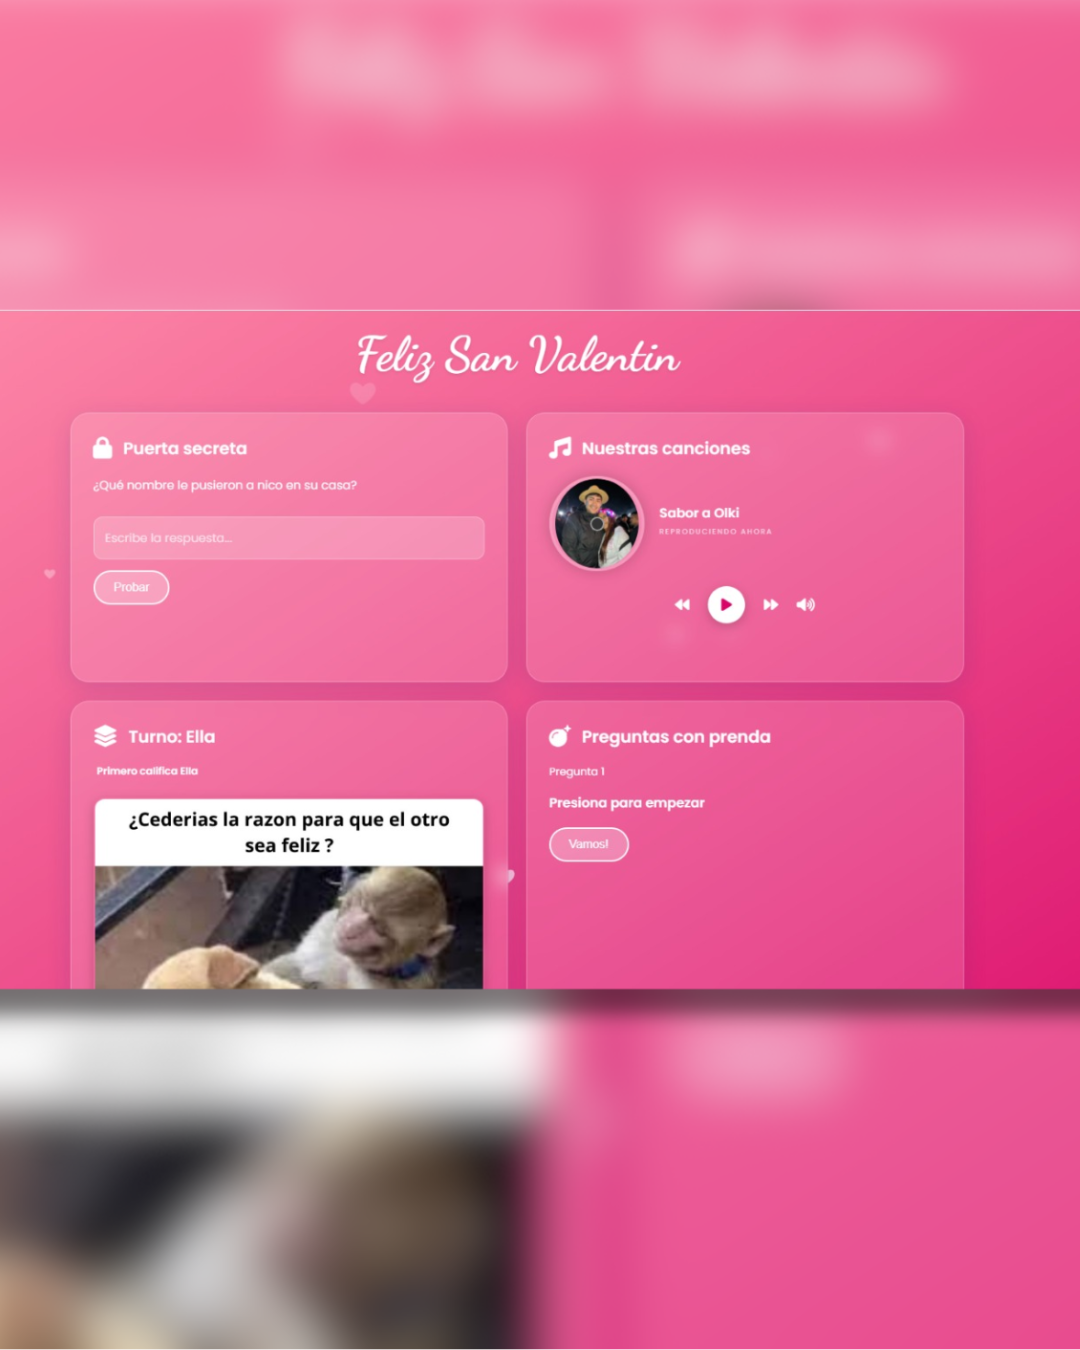
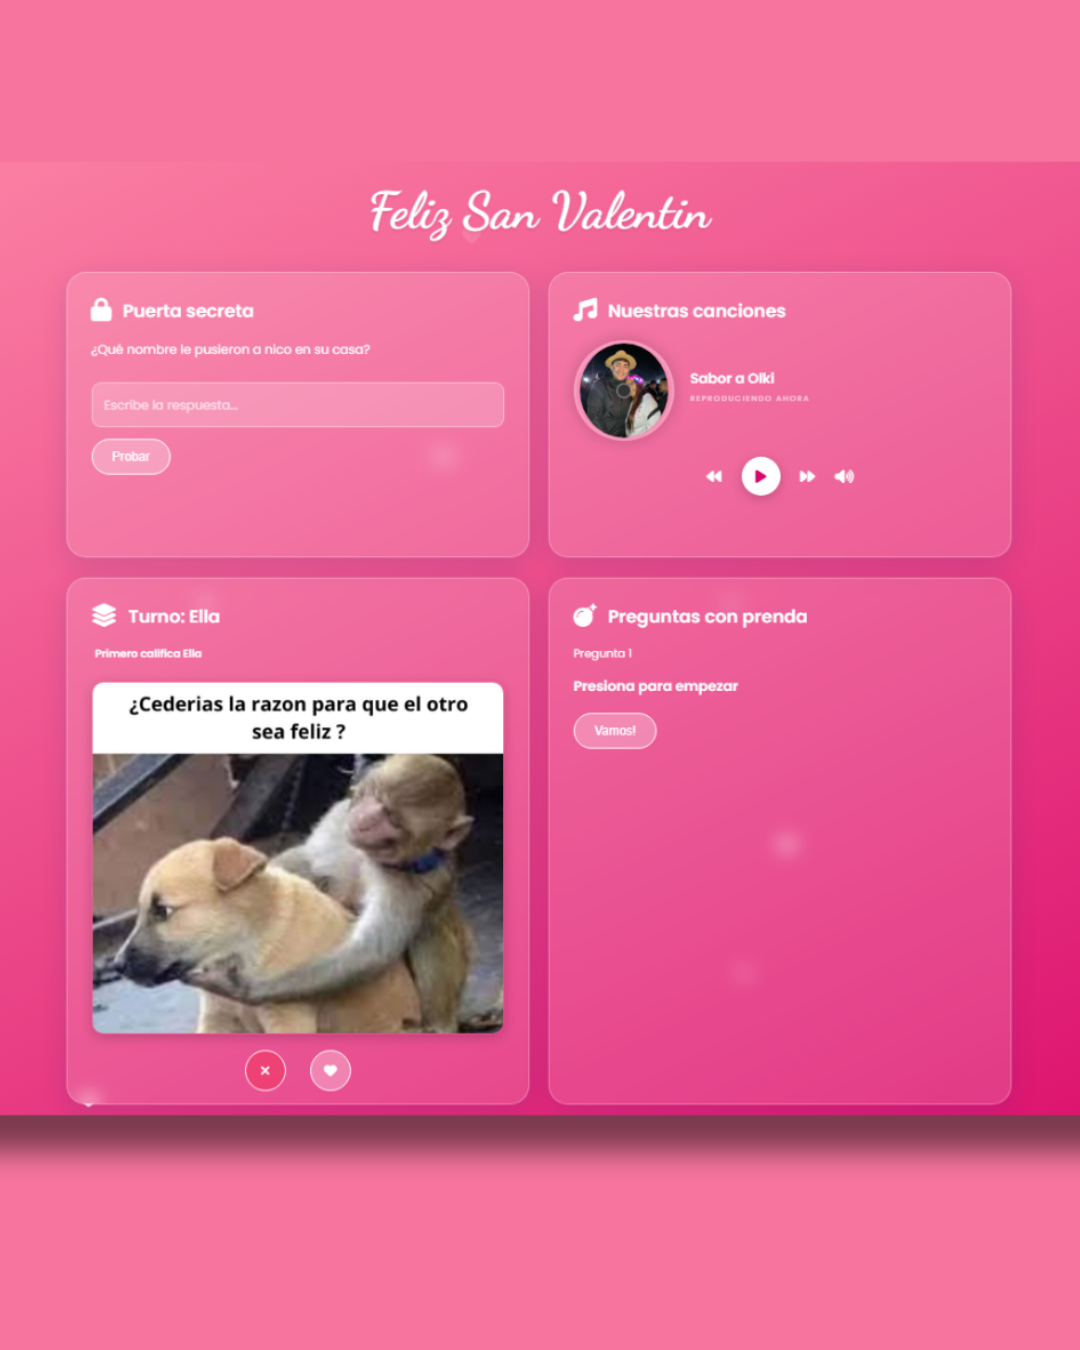
feat: add HogarOrden, MIKIT, SAD projects; reorder carousel; remove monkey; add fullscreen viewer; fix image sizing

diff --git a/index.html b/index.html
@@ -1240,36 +1240,6 @@
       margin: 4px 0;
     }
 
-    /* MONKEY ASSISTANT */
-    .monkey-anim {
-      width: 180px;
-      height: 180px;
-      background-image: url('iconos/mono1.png');
-      background-size: contain;
-      background-repeat: no-repeat;
-      background-position: bottom center;
-      animation: monkeyBlink 1s infinite alternate;
-      cursor: pointer;
-      filter: drop-shadow(0 4px 10px rgba(0, 0, 0, 0.6));
-      transition: transform 0.2s;
-    }
-
-    .monkey-anim:hover {
-      transform: scale(1.1);
-    }
-
-    @keyframes monkeyBlink {
-
-      0%,
-      49.9% {
-        background-image: url('iconos/mono1.png');
-      }
-
-      50%,
-      100% {
-        background-image: url('iconos/mono2.png');
-      }
-    }
     /* CODE EDITOR STYLE FOR ABOUT */
     #win-about {
       width: 480px;
@@ -1456,7 +1426,6 @@
 <body>
 
   <audio id="startup-sound" src="Windows 11 Startup sound.mp3" preload="auto" autoplay></audio>
-  <audio id="error-sound" src="Efecto error computadora.mp3" preload="auto"></audio>
   <script>
     (function () {
       const audio = document.getElementById('startup-sound');
@@ -2093,7 +2062,7 @@
 
       #win-exp .ig-modal-left {
         flex: 1;
-        background: #000;
+        background: #fff;
         display: flex;
         align-items: center;
         justify-content: center;
@@ -2118,9 +2087,12 @@
       }
 
       #win-exp .modal-carousel-track img {
+        display: block;
         min-width: 100%;
         height: 100%;
         object-fit: contain;
+        flex-shrink: 0;
+        cursor: zoom-in;
       }
 
       #win-exp .modal-nav {
@@ -2421,7 +2393,7 @@
         position: relative;
         overflow: hidden;
         background: var(--surface);
-        aspect-ratio: 1;
+        aspect-ratio: 4 / 5;
         width: 100%;
       }
 
@@ -2435,13 +2407,16 @@
         flex-shrink: 0;
         width: 100%;
         height: 100%;
-        display: flex;
-        align-items: center;
-        justify-content: center;
-        flex-direction: column;
-        gap: 12px;
-        padding: 24px;
+        padding: 0;
         position: relative;
+        overflow: hidden;
+      }
+
+      #win-exp .carousel-slide img {
+        display: block;
+        width: 100%;
+        height: 100%;
+        object-fit: cover;
       }
 
       #win-exp .slide-bg-1 {
@@ -2870,64 +2845,81 @@
       <!-- GRID TAB -->
       <div id="tab-grid" class="active-tab">
         <div class="grid">
-          <!-- 0: Landing (Top/Newest) -->
+          <!-- 0: HogarOrden -->
           <div class="grid-item" onclick="openIGModal(0)">
+            <div class="grid-thumb"><img src="Carrusel IG/HogarOrden/1.png" loading="lazy"></div>
+            <div class="grid-item-icon carousel-icon"></div>
+            <div class="grid-overlay"><span>❤ 320</span></div>
+          </div>
+          <!-- 1: MIKIT -->
+          <div class="grid-item" onclick="openIGModal(1)">
+            <div class="grid-thumb"><img src="Carrusel IG/MIKIT/1.png" loading="lazy"></div>
+            <div class="grid-item-icon carousel-icon"></div>
+            <div class="grid-overlay"><span>❤ 280</span></div>
+          </div>
+          <!-- 2: SAD - Sistema de Asignación Docente -->
+          <div class="grid-item" onclick="openIGModal(2)">
+            <div class="grid-thumb"><img src="Carrusel IG/Sistema de asignacion docente/1.png" loading="lazy"></div>
+            <div class="grid-overlay"><span>❤ 156</span></div>
+          </div>
+          <!-- 3: Landing Arquitectura -->
+          <div class="grid-item" onclick="openIGModal(3)">
             <div class="grid-thumb"><img src="Carrusel IG/Landing page para arquitecta/23.png" loading="lazy"></div>
             <div class="grid-item-icon carousel-icon"></div>
             <div class="grid-overlay"><span>❤ 178</span></div>
           </div>
-          <!-- 1: San Valentín -->
-          <div class="grid-item" onclick="openIGModal(1)">
+          <!-- 4: San Valentín -->
+          <div class="grid-item" onclick="openIGModal(4)">
             <div class="grid-thumb"><img src="Carrusel IG/Regalo digital de San valentin/12.png" loading="lazy"></div>
             <div class="grid-overlay"><span>❤ 310</span></div>
           </div>
-          <!-- 2: Vinos Bodega (Venta) -->
-          <div class="grid-item" onclick="openIGModal(2)">
+          <!-- 5: Vinos Bodega -->
+          <div class="grid-item" onclick="openIGModal(5)">
             <div class="grid-thumb"><img src="Carrusel IG/Desarrollo de sistema para venta de vinos/19.png"
                 loading="lazy"></div>
             <div class="grid-item-icon carousel-icon"></div>
             <div class="grid-overlay"><span>❤ 124</span></div>
           </div>
-          <!-- 3: Piattelli (Gestión) -->
-          <div class="grid-item" onclick="openIGModal(3)">
+          <!-- 6: Piattelli -->
+          <div class="grid-item" onclick="openIGModal(6)">
             <div class="grid-thumb"><img src="Carrusel IG/Bodega Piatelli/16.png" loading="lazy"></div>
             <div class="grid-item-icon carousel-icon"></div>
             <div class="grid-overlay"><span>❤ 340</span></div>
           </div>
-          <!-- 4: Calculadora de Raíces -->
-          <div class="grid-item" onclick="openIGModal(4)">
+          <!-- 7: Análisis Numérico -->
+          <div class="grid-item" onclick="openIGModal(7)">
             <div class="grid-thumb"><img src="Carrusel IG/Calculos de raices - Analisis numerico/11.png" loading="lazy">
             </div>
             <div class="grid-overlay"><span>❤ 89</span></div>
           </div>
-          <!-- 5: Veteranos de Malvinas -->
-          <div class="grid-item" onclick="openIGModal(5)">
+          <!-- 8: Malvinas -->
+          <div class="grid-item" onclick="openIGModal(8)">
             <div class="grid-thumb"><img src="Carrusel IG/Entrevista a veteranos de malvinas/4.png" loading="lazy">
             </div>
             <div class="grid-overlay"><span>❤ 412</span></div>
           </div>
-          <!-- 6: Cafetería -->
-          <div class="grid-item" onclick="openIGModal(6)">
+          <!-- 9: Cafetería -->
+          <div class="grid-item" onclick="openIGModal(9)">
             <div class="grid-thumb"><img src="Carrusel IG/Cafeteria - gestion de mesas en tiempo real/18.png"
                 loading="lazy"></div>
             <div class="grid-overlay"><span>❤ 152</span></div>
           </div>
-          <!-- 7: Plotter Wizard (Cotizador) -->
-          <div class="grid-item" onclick="openIGModal(7)">
+          <!-- 10: Plotter Wizard -->
+          <div class="grid-item" onclick="openIGModal(10)">
             <div class="grid-thumb"><img src="Carrusel IG/Cotizador de planos/5.png" loading="lazy"></div>
             <div class="grid-item-icon carousel-icon"></div>
             <div class="grid-overlay"><span>❤ 198</span></div>
           </div>
-          <!-- 8: Reality Plus -->
-          <div class="grid-item" onclick="openIGModal(8)">
+          <!-- 11: Reality Plus -->
+          <div class="grid-item" onclick="openIGModal(11)">
             <div class="grid-thumb"><img
                 src="Carrusel IG/Competencia Innovar - Aplicacion para maquetas de arquitectura/7.png" loading="lazy">
             </div>
             <div class="grid-item-icon carousel-icon"></div>
             <div class="grid-overlay"><span>❤ 521</span></div>
           </div>
-          <!-- 9: My Garden (Bottom/Oldest) -->
-          <div class="grid-item" onclick="openIGModal(9)">
+          <!-- 12: My Garden -->
+          <div class="grid-item" onclick="openIGModal(12)">
             <div class="grid-thumb"><img src="Carrusel IG/My garden/1.png" loading="lazy"></div>
             <div class="grid-item-icon carousel-icon"></div>
             <div class="grid-overlay"><span>❤ 214</span></div>
@@ -2958,11 +2950,12 @@
               <button class="modal-more">•••</button>
             </div>
             <div class="modal-right-body">
-              <div class="modal-caption-wrap">
+                <div class="modal-caption-wrap">
                 <img src="iconos/user.png" class="modal-av">
                 <div>
                   <span class="modal-username">pablocelaya</span>
                   <span id="modal-caption">Cargando...</span>
+                  <div id="modal-link-container" style="margin-top:6px;"></div>
                   <div class="modal-hashtags">#ingenieria #pablocelaya #tecnologia #argentina</div>
                 </div>
               </div>
@@ -3389,26 +3382,7 @@
         style="width:16px; height:16px; object-fit: contain;"> WhatsApp</div>
   </div>
 
-  <!-- MONKEY ASSISTANT -->
-  <div id="monkey-assistant"
-    style="position: fixed; bottom: 70px; right: 20px; z-index: 9000; display: none; align-items: flex-end; gap: 15px;">
-    <div
-      style="background: white; border: 2px solid #222; border-radius: 12px; padding: 14px 18px; position: relative; max-width: 240px; box-shadow: 0 8px 25px rgba(0,0,0,0.6);">
-      <p
-        style="color: #8a0303; font-family: 'Creepster', cursive; font-size: 20px; letter-spacing: 1.5px; text-shadow: 1px 1px 3px rgba(0,0,0,0.5); margin: 0; line-height: 1.3;">
-        ¡Buenas! 🩸 HAZ DOBLE CLIC EN LOS ÍCONOS para navegar o investiga el menú de inicio ANTES DE QUE SEA TARDE...
-        👁
-      </p>
-      <!-- Balloon Tail -->
-      <div
-        style="position: absolute; bottom: 20px; right: -14px; width: 0; height: 0; border-top: 10px solid transparent; border-bottom: 10px solid transparent; border-left: 14px solid #222;">
-      </div>
-      <div
-        style="position: absolute; bottom: 20px; right: -10px; width: 0; height: 0; border-top: 10px solid transparent; border-bottom: 10px solid transparent; border-left: 10px solid white;">
-      </div>
-    </div>
-    <div class="monkey-anim"></div>
-  </div>
+
 
   <script>
     function toggleSub(id, row) {
@@ -3607,18 +3581,6 @@
       whoami: () => `<div class="term-line">Ingeniero en Informática en formación | Backend Dev | Systems Designer</div>`
     };
 
-    // FIX 5: Monkey now lasts 14 seconds (4s extra) before fading out
-    setTimeout(() => {
-      const monkey = document.getElementById('monkey-assistant');
-      if (monkey) {
-        monkey.style.transition = 'opacity 1s ease-out, transform 1s ease-out';
-        monkey.style.opacity = '0';
-        monkey.style.transform = 'translateY(100px)';
-        setTimeout(() => monkey.remove(), 1000);
-      }
-    }, 14000);
-
-
     function handleTermInput(e) {
       if (e.key !== 'Enter') return;
       const input = document.getElementById('term-input');
@@ -3651,20 +3613,6 @@
     }
 
     window.addEventListener('load', () => {
-      // Show monkey assistant after delay
-      setTimeout(() => {
-        const monkey = document.getElementById('monkey-assistant');
-        const errSound = document.getElementById('error-sound');
-        if (monkey) {
-          monkey.style.display = 'flex';
-          monkey.style.animation = 'winOpen 0.5s ease-out forwards';
-        }
-        if (errSound) {
-          errSound.volume = 0.8;
-          errSound.play().catch(e => console.log('Error sound autoplay block', e));
-        }
-      }, 4500);
-
       // Auto open about window
       setTimeout(() => openWindow('win-about'), 400);
     });
@@ -3723,9 +3671,28 @@
 
     const IG_PROJECTS = [
       {
+        title: "HogarOrden",
+        caption: "Sistema integral de gestión inteligente para el hogar. Automatización de tareas, control de gastos y organización familiar desde un solo lugar.",
+        location: "Salta, Argentina",
+        images: ["Carrusel IG/HogarOrden/1.png", "Carrusel IG/HogarOrden/2.png"]
+      },
+      {
+        title: "MIKIT",
+        caption: "Kit personal de herramientas digitales y recursos técnicos. Compilación de utilidades para el desarrollo y la productividad diaria.",
+        location: "Salta, Argentina",
+        images: ["Carrusel IG/MIKIT/1.png", "Carrusel IG/MIKIT/2.png"]
+      },
+      {
+        title: "SAD — Sistema de Asignación Docente",
+        caption: "Plataforma web para gestión y asignación de cargos docentes. Optimiza la distribución de horas cátedra en instituciones educativas.",
+        location: "Salta, Argentina",
+        images: ["Carrusel IG/Sistema de asignacion docente/1.png"]
+      },
+      {
         title: "Estudio Arquitectura",
         caption: "Landing page corporativa para estudio de arquitectura con portfolio interactivo. Diseño minimalista y moderno.",
         location: "Salta, Argentina",
+        link: "https://dev-pcr.github.io/portfolio-arquitectura/",
         images: [
           "Carrusel IG/Landing page para arquitecta/23.png",
           "Carrusel IG/Landing page para arquitecta/24.png",
@@ -3829,10 +3796,16 @@
       // Fill text data
       document.getElementById('modal-caption').innerText = project.caption;
       document.getElementById('modal-location').innerText = project.location;
+      const linkContainer = document.getElementById('modal-link-container');
+      if (project.link) {
+        linkContainer.innerHTML = `<a href="${project.link}" target="_blank" rel="noopener" style="color:#0095f6;font-size:13px;text-decoration:none;font-weight:600;">🔗 Ver sitio</a>`;
+      } else {
+        linkContainer.innerHTML = '';
+      }
 
       // Fill images
       const track = document.getElementById('modal-track');
-      track.innerHTML = project.images.map(img => `<img src="${img}" loading="lazy">`).join('');
+      track.innerHTML = project.images.map(img => `<img src="${img}" loading="lazy" onclick="openImgViewer('${img}')">`).join('');
 
       updateModalCarousel();
 
@@ -3885,7 +3858,7 @@
       </div>
       <div class="carousel-wrap" id="feed-c-${i}">
         <div class="carousel-track" id="feed-track-${i}">
-          ${p.images.map(img => `<div class="carousel-slide" style="padding:0;"><img src="${img}" style="width:100%;height:100%;object-fit:contain;"></div>`).join('')}
+          ${p.images.map(img => `<div class="carousel-slide"><img src="${img}" alt=""></div>`).join('')}
         </div>
         ${p.images.length > 1 ? `
           <button class="carousel-btn prev" onclick="feedSlide(${i}, -1)">❮</button>
@@ -3900,6 +3873,7 @@
       </div>
       <div class="post-likes" id="feed-likes-${i}">34 me gusta</div>
       <div class="post-caption"><span class="username">pablocelaya</span> ${p.caption}</div>
+      ${p.link ? `<div class="post-link" style="margin-top:6px;"><a href="${p.link}" target="_blank" rel="noopener" style="color:#0095f6;font-size:13px;text-decoration:none;font-weight:600;">🔗 Ver sitio</a></div>` : ''}
       <div class="post-time">hace 2 días</div>
     </div>
   `).join('');
@@ -3933,7 +3907,31 @@
 
     window.addEventListener('load', () => { });
 
+    // ── FULLSCREEN IMAGE VIEWER ──
+    function openImgViewer(src) {
+      const viewer = document.getElementById('img-viewer');
+      document.getElementById('img-viewer-src').src = src;
+      viewer.style.display = 'flex';
+      document.body.style.overflow = 'hidden';
+    }
+    function closeImgViewer() {
+      document.getElementById('img-viewer').style.display = 'none';
+      document.body.style.overflow = '';
+    }
   </script>
+
+  <!-- Fullscreen Image Viewer -->
+  <div id="img-viewer"
+    style="display:none;position:fixed;inset:0;z-index:99999;background:rgba(0,0,0,0.95);cursor:zoom-out;justify-content:center;align-items:center;"
+    onclick="closeImgViewer()">
+    <img id="img-viewer-src"
+      style="max-width:95%;max-height:95%;object-fit:contain;border-radius:4px;box-shadow:0 0 40px rgba(0,0,0,0.5);cursor:default;"
+      onclick="event.stopPropagation()">
+    <button
+      style="position:absolute;top:20px;right:24px;background:none;border:none;color:white;font-size:36px;cursor:pointer;font-family:system-ui;"
+      onclick="closeImgViewer()">✕</button>
+  </div>
+
 </body>
 
 </html>
